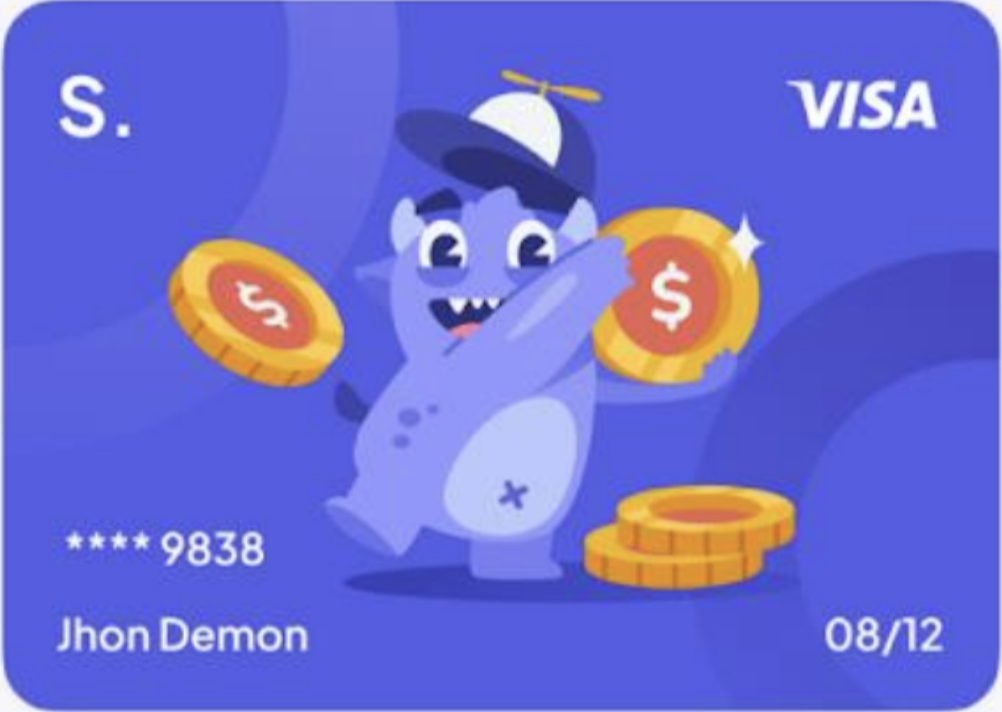
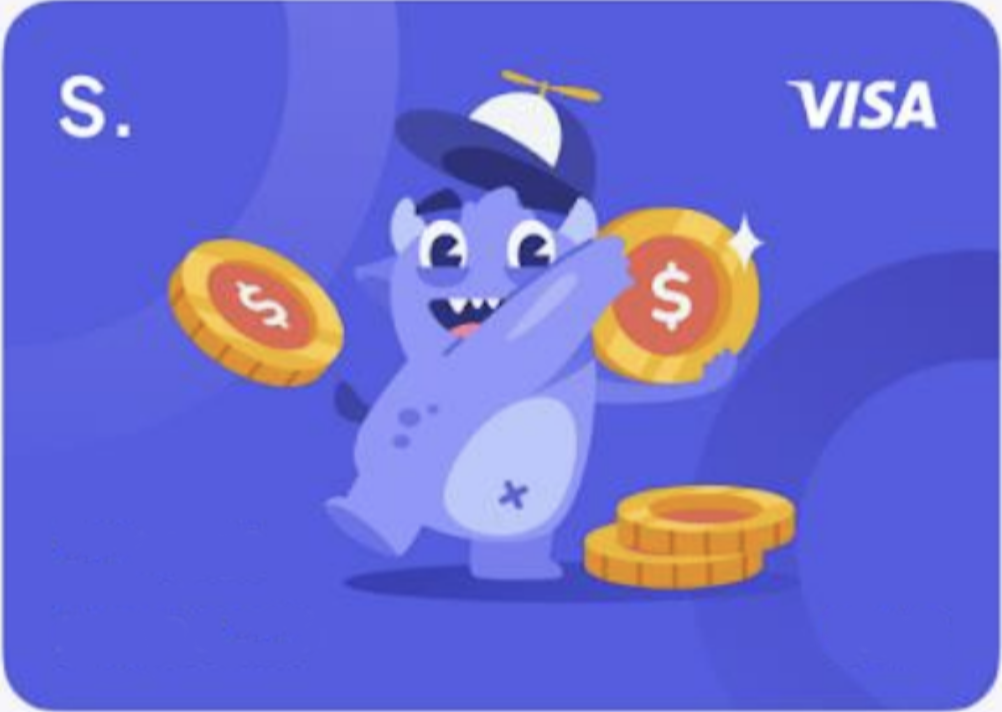
chore: detailing style

Changed region(s): [[0.0619, 0.8652, 0.3094, 0.927], [0.0619, 0.7416, 0.2784, 0.8034], [0.8044, 0.8652, 0.9591, 0.927]]

diff --git a/src/components/Molecules/Home/LastTransaction.tsx b/src/components/Molecules/Home/LastTransaction.tsx
@@ -9,7 +9,9 @@ type Props = {
 };
 export default function LastTransaction(props: Props) {
   return (
-    <div className={`${props.className} p-5 rounded-xl bg-white divide-y divide-gray1`}>
+    <div
+      className={`${props.className} p-5 rounded-3xl bg-white divide-y divide-gray1`}
+    >
       <TitleWithMenu
         title="Last Transactions"
         filter={
@@ -19,17 +21,22 @@ export default function LastTransaction(props: Props) {
           </div>
         }
       />
-      {lastTransaction.map((item, idx) => (
-        <div key={idx} className="flex justify-between items-center py-2">
-          <CardList item={item} circle="medium" />
-          <div className="flex space-x-5">
-            <p className="w-16 text-sm font-semibold">{item.amount}</p>
-            <button className=" p-1 flex item-center justify-center rounded-full duration-300  hover:bg-gray2">
-              <BsThreeDotsVertical />
-            </button>
+      <div className="h-52 overflow-y-auto">
+        {lastTransaction.map((item, idx) => (
+          <div
+            key={idx}
+            className="flex justify-between items-center py-2 duration-300 hover:bg-gray2"
+          >
+            <CardList item={item} circle="medium" />
+            <div className="flex space-x-5">
+              <p className="w-16 text-sm font-semibold">{item.amount}</p>
+              <button className=" p-1 flex item-center justify-center rounded-full duration-300  hover:bg-gray2">
+                <BsThreeDotsVertical />
+              </button>
+            </div>
           </div>
-        </div>
-      ))}
+        ))}
+      </div>
     </div>
   );
 }

diff --git a/src/components/Atoms/Chart/Doughnut.tsx b/src/components/Atoms/Chart/Doughnut.tsx
@@ -53,7 +53,7 @@ const DoughnutCart = () => {
 
   return (
     <div className="relative pt-6">
-      <PieChart width={width * 0.23} height={width * 0.1}>
+      <PieChart width={width * 0.23} height={width * 0.1} style={{ zIndex: 2 }}>
         <Pie
           data={data}
           cx={width * 0.11}
@@ -93,8 +93,8 @@ const DoughnutCart = () => {
         </text>
       </PieChart>
 
-      <div className="absolute inset-0 -top-[5%] left-[1%] w-full flex justify-center">
-        <Image src={Curved} alt="" className="w-[90%] h-[90%]"/>
+      <div className="absolute z-1 inset-0 -top-[5%] left-[1%] w-full flex justify-center">
+        <Image src={Curved} alt="" className="w-[90%] h-[90%]" />
       </div>
     </div>
   );

diff --git a/src/components/Molecules/LatestSpending.tsx b/src/components/Molecules/LatestSpending.tsx
@@ -10,11 +10,16 @@ type Props = {
 
 export default function LatestSpending(props: Props) {
   return (
-    <div className={`${props.className} p-4 rounded-xl border border-gray1`}>
+    <div className={`${props.className} p-4 rounded-2xl border border-gray1`}>
       <TitleWithMenu menu title="Latest spending" size="text-lg" />
       <div className=" flex flex-col divide-y divide-gray1">
         {spending.map((item, idx) => (
-          <CardList item={item} key={idx} circle="large" className="py-4" />
+          <CardList
+            item={item}
+            key={idx}
+            circle="large"
+            className="py-4 duration-300 hover:bg-gray2"
+          />
         ))}
       </div>
       <ButtonLink

diff --git a/src/components/Molecules/Card/CVisa.tsx b/src/components/Molecules/Card/CVisa.tsx
@@ -1,0 +1,22 @@
+import { Visa } from "my-assets/Image";
+import Image from "next/image";
+import React from "react";
+
+type Props = {
+  className?: string;
+};
+
+export default function CardVisa(props: Props) {
+  return (
+    <div className={`relative aspect-[3/1.6] ${props.className} rounded-3xl overflow-hidden duration-300 hover:shadow-lg`}>
+      <Image src={Visa} alt="" className="h-full" />
+      <div className="absolute bottom-[10%] left-0 px-[8%] flex justify-between w-full items-end text-white">
+        <div>
+          <p className="pb-2">**** 9838</p>
+          <p>Jhon Demon</p>
+        </div>
+        <p>08/12</p>
+      </div>
+    </div>
+  );
+}

diff --git a/src/app/page.tsx b/src/app/page.tsx
@@ -5,6 +5,7 @@ import {
   ListItemToBuy,
   BalanceStatistic,
   Analitycs,
+  CardVisa,
 } from "my-comp-molecules";
 import Image from "next/image";
 
@@ -13,7 +14,8 @@ export default function Home() {
     <div className="p-5 flex flex-col space-y-5">
       <div className="flex w-full space-x-5">
         <BalanceStatistic className="w-[55%]" />
-        <Image src={Visa} alt="" className="w-[45%] aspect-[3/1.6]" />
+        <CardVisa className="w-[45%]" />
+        {/* <Image src={Visa} alt="" className="w-[45%] " /> */}
       </div>
       <div className="flex w-full">
         <ListItemToBuy className="w-[52%]" />

diff --git a/src/components/Molecules/Home/Analitycs.tsx b/src/components/Molecules/Home/Analitycs.tsx
@@ -1,5 +1,5 @@
 import React from "react";
-import { Doughnut, Dummy, TitleWithMenu } from "my-comp-atoms";
+import { Doughnut, TitleWithMenu } from "my-comp-atoms";
 
 type Props = {
   className?: string;
@@ -7,7 +7,7 @@ type Props = {
 
 export default function Analitycs(props: Props) {
   return (
-    <div className={`${props.className} relative p-5 rounded-xl bg-white`}>
+    <div className={`${props.className} relative p-5 rounded-3xl bg-white`}>
       <TitleWithMenu title="Analytics" menu />
       <Doughnut />
     </div>

diff --git a/src/components/Molecules/Home/ChatForm.tsx b/src/components/Molecules/Home/ChatForm.tsx
@@ -9,10 +9,10 @@ type Props = {
 
 export default function ChatForm(props: Props) {
   return (
-    <div className={`${props.className} p-5 rounded-r-xl bg-white`}>
+    <div className={`${props.className} p-5 rounded-r-3xl bg-white`}>
       <TitleWithMenu title="Esther Howard" />
 
-      <div className="w-full h-36 overflow-y-scroll">
+      <div className="w-full h-36 overflow-y-auto">
         {listChat.map((item, idx) => (
           <CardChat
             item={item}

diff --git a/src/constant/index.ts b/src/constant/index.ts
@@ -44,6 +44,24 @@ export const lastTransaction = [
     icon: Tickets,
     amount: "-$5,000",
   },
+  {
+    title: "Bassie Cooper",
+    date: "02 july 2023",
+    icon: Tickets,
+    amount: "-$3,000",
+  },
+  {
+    title: "Guy Hawkins",
+    date: "02 july 2023",
+    icon: Tickets,
+    amount: "-$1,970",
+  },
+  {
+    title: "Floyd Miles",
+    date: "02 july 2023",
+    icon: Tickets,
+    amount: "-$5,000",
+  },
 ];
 
 export const listBuy = [

diff --git a/src/components/Molecules/GotoPremium.tsx b/src/components/Molecules/GotoPremium.tsx
@@ -9,7 +9,7 @@ type Props = {
 
 export default function ExpenseIncome(props: Props) {
   return (
-    <div className={`${props.className} p-4 rounded-xl border border-gray1`}>
+    <div className={`${props.className} p-4 rounded-2xl border border-gray1`}>
       <h2 className="text-center font-medium">Go to premium</h2>
       <Image src={Crown} alt="" width={160} />
       <p className="text-xl font-semibold">Need more feature?</p>

diff --git a/src/components/Molecules/ExpenseIncome.tsx b/src/components/Molecules/ExpenseIncome.tsx
@@ -7,7 +7,7 @@ type Props = {
 
 export default function ExpenseIncome(props: Props) {
   return (
-    <div className={`${props.className} p-4 rounded-xl border border-gray1`}>
+    <div className={`${props.className} p-4 rounded-2xl border border-gray1`}>
       <TitleWithMenu title="Expense and Income" size="text-lg" />
       <div className="pt-3 pb-3 flex justify-between items-center">
         <div className="">

diff --git a/src/components/Molecules/Home/BalanceStatistic.tsx b/src/components/Molecules/Home/BalanceStatistic.tsx
@@ -12,7 +12,7 @@ type Props = {
 
 export default function BalanceStatistic(props: Props) {
   return (
-    <div className={`${props.className} p-5 rounded-xl bg-white`}>
+    <div className={`${props.className} p-5 rounded-3xl bg-white`}>
       <div className="flex items-start justify-between">
         <div className="w-[25%]">
           <p className="font-medium">Balance Statistic</p>

diff --git a/src/components/Molecules/Home/ListItemToBuy.tsx b/src/components/Molecules/Home/ListItemToBuy.tsx
@@ -10,7 +10,7 @@ type Props = {
 
 export default function ListItemToBuy(props: Props) {
   return (
-    <div className={`${props.className} p-5 rounded-l-xl bg-white border-r`}>
+    <div className={`${props.className} p-5 rounded-l-3xl bg-white border-r`}>
       <TitleWithMenu title="List of item to buy" />
       <div className="py-1 flex space-x-5 items-center">
         <div>
